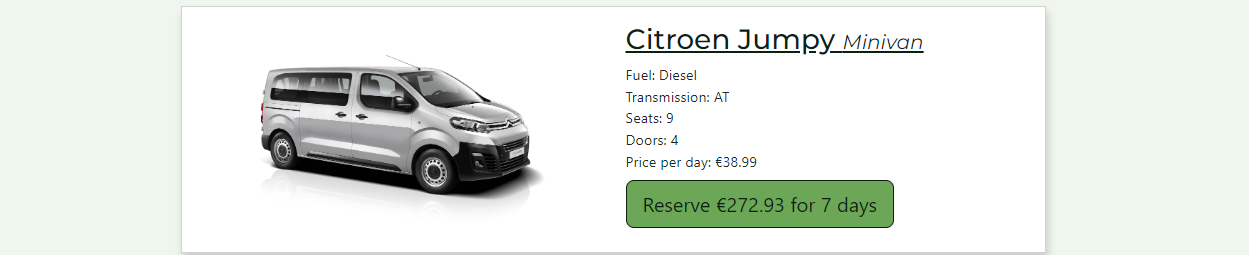
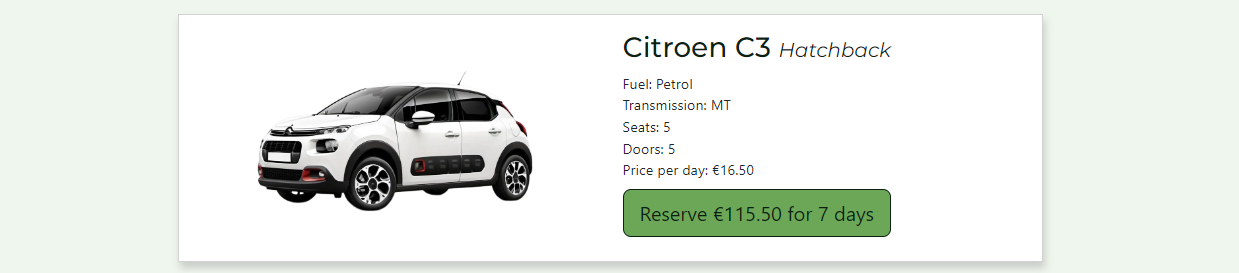
Change screen of the filter features, after add style to it

diff --git a/bookings/templates/bookings/booking.html b/bookings/templates/bookings/booking.html
@@ -127,66 +127,8 @@
     {% endif %}
 </div>
 
-<!-- Modal for car details -->
-<div class="modal fade" id="detailCar" tabindex="-1" aria-labelledby="detailCarLabel" aria-hidden="true">
-    <div class="modal-dialog modal-lg modal-dialog-scrollable">
-        <div class="modal-content">
-            <div class="modal-header">
-                <h2 class="modal-title h4" id="detailCarLabel">Detail Car Information</h2>
-                <button type="button" class="btn-close" data-bs-dismiss="modal" aria-label="Close"></button>
-            </div>
-            <div class="modal-body">
-                <div id="carInfo">
-                    <!-- Car details will be inserted here -->
-                </div>
-            </div>
-            <div class="modal-footer">
-                <button type="button" class="btn btn-secondary" data-bs-dismiss="modal">Close</button>
-            </div>
-        </div>
-    </div>
-</div>
-
 <script src="https://code.jquery.com/jquery-3.6.0.min.js"></script>
 <script>
-    // Handles the click event for displaying car details in a modal
-    document.addEventListener('DOMContentLoaded', function () {
-        document.body.addEventListener('click', function (event) {
-            if (event.target.matches('.car-name')) {
-                event.preventDefault();
-    
-                var carId = event.target.getAttribute('data-car-id');
-    
-                // Fetch car details (AJAX request)
-                fetch(`/booking/get_car_details/${carId}/`)  // You need to create a view for this
-                    .then(response => response.json())
-                    .then(data => {
-
-                        // Populate modal with car details
-                        var carInfoElement = document.getElementById('carInfo');
-                        if (carInfoElement) {
-                            carInfoElement.innerHTML = `
-                                <p><strong>${data.car_make} ${data.car_model}</strong></p>
-                                <p><strong>Type:</strong> ${data.car_type}</p>
-                                <p><strong>Year:</strong> ${data.car_year}</p>
-                                <p><strong>Fuel Type:</strong> ${data.car_fuel_type}</p>
-                                <p><strong>Transmission:</strong> ${data.car_transmission}</p>
-                                <p><strong>Seats:</strong> ${data.car_seats}</p>
-                                <p><strong>Doors:</strong> ${data.car_doors}</p>
-                                <p><strong>Air Conditioning:</strong> ${data.car_air_conditioning ? 'Yes' : 'No'}</p>
-                                <p><strong>Navigation:</strong> ${data.car_navigation ? 'Yes' : 'No'}</p>
-                                <p><strong>Price per day:</strong> €${data.car_price_per_day}</p>
-                                <img src="${data.car_image}" alt="Car image" class="img-fluid" id="carDetailImage">
-                            `;
-                        } else {
-                            console.error('Element with id "carInfo" not found.');
-                        }
-                    })
-                    .catch(error => console.error('Error fetching car details:', error));
-            }
-        });
-    });
-
     // Updates the car list based on selected filters
     $(document).ready(function () {
         var sortBy = 'default';

diff --git a/bookings/templates/bookings/car_list.html b/bookings/templates/bookings/car_list.html
@@ -11,12 +11,8 @@
                     </div>
                     <!-- Car Information -->
                     <div class="car-info col-md-6 text-center text-md-start">
-                        <h3>
-                            <a href="#" class="car-name" data-car-id="{{ car.id }}" data-bs-toggle="modal"
-                                data-bs-target="#detailCar">
-                                {{ car.make }} {{ car.model }} <span
+                        <h3>{{ car.make }} {{ car.model }} <span
                                     class="fw-normal fs-5 fst-italic">{{ car.type }}</span>
-                            </a>
                         </h3>
                         <p>Fuel: {{ car.fuel_type }}</p>
                         <p>Transmission: {{ car.transmission }}</p>

diff --git a/bookings/views.py b/bookings/views.py
@@ -428,43 +428,3 @@ def booking_details(request, booking_id):
         return JsonResponse({'error': 'Booking not found'}, status=404)
     except Exception as e:
         return JsonResponse({'error': str(e)}, status=500)
-
-
-def get_car_details(request, car_id):
-    """
-    Retrieves and returns details of a specific car in JSON format.
-
-    This function looks up a car by its ID and returns its details, including
-    model, make, year, type, fuel type, transmission, number of seats, number
-    of doors, air conditioning availability, navigation system, price per day,
-    and image URL. If the car with the given ID does not exist, it returns a
-    JSON response with an error message and a 404 status code.
-
-    Parameters:
-    request (HttpRequest): The request object containing the HTTP request data.
-    car_id (int): The ID of the car to retrieve details for.
-
-    Returns:
-    JsonResponse: A JSON response containing the car details or an error
-    message if the car is not found.
-    """
-    try:
-        car = Car.objects.get(id=car_id)
-        # Prepare car details in a dictionary to be returned as JSON
-        data = {
-            'car_model': car.model,
-            'car_make': car.make,
-            'car_year': car.year,
-            'car_type': car.type,
-            'car_fuel_type': car.fuel_type,
-            'car_transmission': car.transmission,
-            'car_seats': car.seats,
-            'car_doors': car.doors,
-            'car_air_conditioning': car.air_conditioning,
-            'car_navigation': car.navigation,
-            'car_price_per_day': car.price_per_day,
-            'car_image': car.image.url,
-        }
-        return JsonResponse(data)
-    except Car.DoesNotExist:
-        return JsonResponse({'error': 'Car not found'}, status=404)

diff --git a/bookings/urls.py b/bookings/urls.py
@@ -12,6 +12,4 @@ urlpatterns = [
          views.booking_form, name='booking_form'),
     path('booking_details/<int:booking_id>/',
          views.booking_details, name='booking_details'),
-    path('get_car_details/<int:car_id>/',
-         views.get_car_details, name='get_car_details'),
 ]

diff --git a/TESTING.md b/TESTING.md
@@ -105,8 +105,6 @@ To enhance quality and increase confidence in the correctness of the application
 |                                   | Click the "Filter" button to open the filter options       | Displayed a list of filter options                                           | Pass      |          |
 |                                   | Select various filter options                              | The list of cars automatically update to reflect the selected filters        | Pass      |          |
 |                                   | Click the "Reset Filters" button                           | All applied filters should be cleared                                        | Pass      |          |
-|                                   | Click on the car name in a car listing                     | Open a modal window displaying detailed information about the selected car   | Pass      |          |
-|                                   | Click the "Close" button on the modal window               | Close the modal window and return to the search results page                 | Pass      |          |
 |                                   | Click the "Reserve" button for a car listing               | Redirection to the Booking form                                              | Pass      |          |
 | Booking Form                      |                                                            |                                                                              |           |          |
 |                                   | Navigate to the booking form after selecting a car         | The form automatically display the previously entered dates, times, offices  | Pass      |          |

diff --git a/README.md b/README.md
@@ -286,12 +286,6 @@ Filters and sorting options dynamically update the list of available cars.
 
 <details><summary>Click to view a screenshot of the feature</summary><img src="static/images/readme_images/features/car-filter.png"></details>
 
-#### Car Details
-
-View detailed information about each car.
-
-<details><summary>Click to view a screenshot of the feature</summary><img src="static/images/readme_images/features/car-details.png"></details>
-
 #### Reservations
 
 Authenticated users can reserve a car by:
